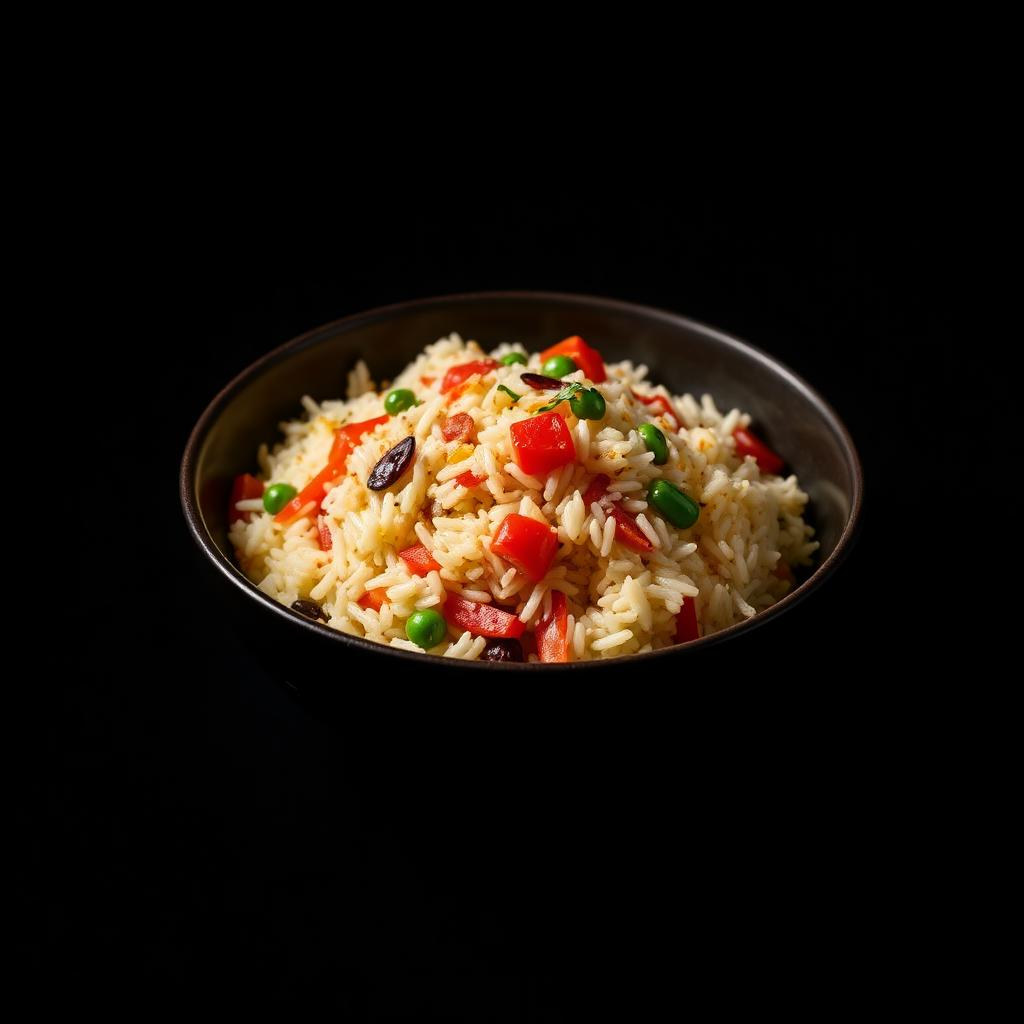
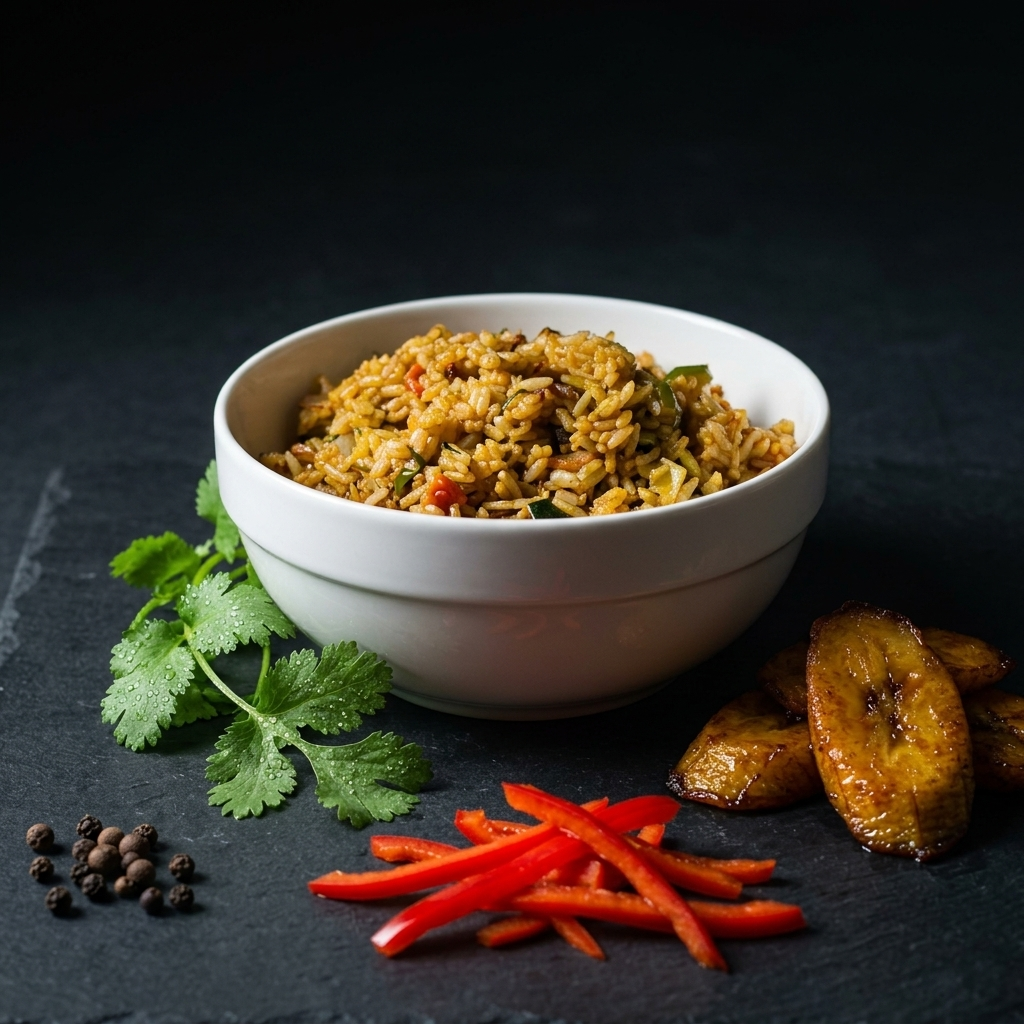
SEO overhaul, area image refactor, AI chat fix, AGENTS.md
- SEO: updated all page meta tags (title, description, OG, Twitter, canonical)
- SEO: added JSON-LD Restaurant schema with LocalBusiness data
- SEO: created robots.txt and sitemap.xml
- SEO: created AGENTS.md project rules file
- Area: renamed src/assets/area/ images to clean sequential names
- Area: swapped all venue image imports to use src/assets/area/
- Fix: AI chat fallback now emits SSE JSON events matching uiMessageChunkSchema
- Fix: replaced Lovable-authored default meta with real restaurant info

diff --git a/src/routes/__root.tsx b/src/routes/__root.tsx
@@ -72,29 +72,39 @@ function ErrorComponent({ error, reset }: { error: Error; reset: () => void }) {
   );
 }
 
+const SITE_URL = "https://taniascuisine.rw";
+const SITE_NAME = "Tania's Cuisine & Lounge — Kigali";
+const OG_IMAGE = `${SITE_URL}/og-image.jpg`;
+
 export const Route = createRootRouteWithContext<{ queryClient: QueryClient }>()({
   head: () => ({
     meta: [
       { charSet: "utf-8" },
       { name: "viewport", content: "width=device-width, initial-scale=1" },
-      { title: "Tania's Cuisine" },
-      { name: "description", content: "Tania's Culinary Canvas is a website for a catering and dining company." },
-      { name: "author", content: "Lovable" },
-      { property: "og:title", content: "Tania's Cuisine" },
-      { property: "og:description", content: "Tania's Culinary Canvas is a website for a catering and dining company." },
+      { title: "Tania's Cuisine & Lounge — Kigali's Finest Dining Since 2018" },
+      { name: "description", content: "Atmospheric dining, lounge and catering at M&M Plaza, Gishushu, Kigali. African grills, daily buffet, coffee bar. Reserve your table or book an event for up to 1,000 guests." },
+      { name: "author", content: "Tania's Cuisine & Lounge" },
+      { name: "theme-color", content: "#0c0b0a" },
+      { name: "robots", content: "index, follow" },
+      { name: "googlebot", content: "index, follow" },
+      { property: "og:site_name", content: SITE_NAME },
+      { property: "og:title", content: "Tania's Cuisine & Lounge — Kigali's Finest Dining Since 2018" },
+      { property: "og:description", content: "Atmospheric dining, lounge and catering at M&M Plaza, Gishushu, Kigali. African grills, daily buffet, coffee bar. Reserve your table or book an event for up to 1,000 guests." },
       { property: "og:type", content: "website" },
-      { name: "twitter:card", content: "summary" },
-      { name: "twitter:site", content: "@Lovable" },
-      { name: "twitter:title", content: "Tania's Cuisine" },
-      { name: "twitter:description", content: "Tania's Culinary Canvas is a website for a catering and dining company." },
-      { property: "og:image", content: "https://pub-bb2e103a32db4e198524a2e9ed8f35b4.r2.dev/4a08b8bd-8c39-4d37-b76d-35fd05f4b3ce/id-preview-1b52115e--a3289e06-0e1f-42bd-b4b5-78e1a7840414.lovable.app-1780134926457.png" },
-      { name: "twitter:image", content: "https://pub-bb2e103a32db4e198524a2e9ed8f35b4.r2.dev/4a08b8bd-8c39-4d37-b76d-35fd05f4b3ce/id-preview-1b52115e--a3289e06-0e1f-42bd-b4b5-78e1a7840414.lovable.app-1780134926457.png" },
+      { property: "og:url", content: SITE_URL },
+      { property: "og:image", content: OG_IMAGE },
+      { property: "og:image:width", content: "1200" },
+      { property: "og:image:height", content: "630" },
+      { property: "og:locale", content: "en_RW" },
+      { name: "twitter:card", content: "summary_large_image" },
+      { name: "twitter:site", content: "@LoungeTania" },
+      { name: "twitter:title", content: "Tania's Cuisine & Lounge — Kigali" },
+      { name: "twitter:description", content: "Atmospheric dining, lounge & catering in Kigali. African grills, daily buffet, coffee bar." },
+      { name: "twitter:image", content: OG_IMAGE },
     ],
     links: [
-      {
-        rel: "stylesheet",
-        href: appCss,
-      },
+      { rel: "canonical", href: SITE_URL },
+      { rel: "stylesheet", href: appCss },
     ],
   }),
   shellComponent: RootShell,
@@ -103,11 +113,48 @@ export const Route = createRootRouteWithContext<{ queryClient: QueryClient }>()(
   errorComponent: ErrorComponent,
 });
 
+const SCHEMA = {
+  "@context": "https://schema.org",
+  "@type": "Restaurant",
+  name: "Tania's Cuisine & Lounge",
+  alternateName: "Tania's",
+  description: "Kigali's atmospheric dining destination. African grills, curries, daily buffet, coffee bar and catering for up to 1,000 guests.",
+  url: "https://taniascuisine.rw",
+  telephone: "[phone redacted]",
+  email: "[email redacted]",
+  servesCuisine: ["African", "East African", "Grill", "International"],
+  priceRange: "$$",
+  foundingDate: "2020-02",
+  parentOrganization: {
+    "@type": "Organization",
+    name: "Tany's Ltd",
+    foundingDate: "2018",
+  },
+  address: {
+    "@type": "PostalAddress",
+    streetAddress: "M&M Plaza, Gishushu",
+    addressLocality: "Kigali",
+    addressCountry: "RW",
+  },
+  geo: { "@type": "GeoCoordinates", latitude: -1.9441, longitude: 30.0619 },
+  openingHoursSpecification: [
+    { "@type": "OpeningHoursSpecification", dayOfWeek: ["Monday", "Tuesday", "Wednesday", "Thursday", "Friday"], opens: "11:00", closes: "23:00" },
+    { "@type": "OpeningHoursSpecification", dayOfWeek: ["Saturday", "Sunday"], opens: "11:00", closes: "23:00" },
+  ],
+  image: "https://taniascuisine.rw/og-image.jpg",
+  sameAs: [
+    "https://www.instagram.com/taniacuisineandlounge",
+    "https://twitter.com/LoungeTania",
+  ],
+  aggregateRating: { "@type": "AggregateRating", ratingValue: "4.5", bestRating: "5", ratingCount: "120" },
+};
+
 function RootShell({ children }: { children: ReactNode }) {
   return (
     <html lang="en">
       <head>
         <HeadContent />
+        <script type="application/ld+json" dangerouslySetInnerHTML={{ __html: JSON.stringify(SCHEMA) }} />
       </head>
       <body>
         {children}

diff --git a/src/routes/lounge.tsx b/src/routes/lounge.tsx
@@ -1,19 +1,23 @@
 import { createFileRoute, Link } from "@tanstack/react-router";
 import { SiteLayout } from "@/components/site/Layout";
-import lounge from "@/assets/lounge-interior.jpg";
-import buffet from "@/assets/buffet.jpg";
-import loungeDrink from "@/assets/lounge-drink.jpg";
-import loungeFood from "@/assets/lounge-food.jpg";
+import lounge from "@/assets/area/area-01.jpeg";
+import buffet from "@/assets/area/area-04.jpeg";
+import loungeDrink from "@/assets/area/area-05.jpeg";
+import loungeFood from "@/assets/area/area-06.jpeg";
 import { MapPin, Clock, Phone } from "lucide-react";
 
 export const Route = createFileRoute("/lounge")({
   head: () => ({
     meta: [
-      { title: "The Lounge — Tania's Cuisine & Lounge Kigali" },
-      { name: "description", content: "Velvet booths, copper light, daily buffet. Reserve your table at Tania's atmospheric lounge in Kigali." },
-      { property: "og:title", content: "The Lounge — Tania's Cuisine & Lounge" },
-      { property: "og:description", content: "Atmospheric Kigali dining lounge with daily buffet." },
+      { title: "The Lounge — Tania's Cuisine & Lounge | Gishushu, Kigali" },
+      { name: "description", content: "Tania's atmospheric lounge at M&M Plaza, Gishushu, Kigali. Velvet booths, copper pendants, daily chef's buffet (12,000 RWF, 12:00–15:00). Open Mon–Sun 11:00–23:00. Reserve your table." },
+      { property: "og:title", content: "The Lounge — Tania's Cuisine & Lounge | Gishushu, Kigali" },
+      { property: "og:description", content: "Atmospheric lounge at M&M Plaza, Gishushu, Kigali. Daily buffet, velvet booths, copper light. Reserve your table." },
+      { property: "og:url", content: "https://taniascuisine.rw/lounge" },
+      { name: "twitter:title", content: "The Lounge — Tania's Cuisine & Lounge" },
+      { name: "twitter:description", content: "Atmospheric Kigali dining lounge with daily buffet at M&M Plaza, Gishushu." },
     ],
+    links: [{ rel: "canonical", href: "https://taniascuisine.rw/lounge" }],
   }),
   component: LoungePage,
 });

diff --git a/src/routes/about.tsx b/src/routes/about.tsx
@@ -1,17 +1,21 @@
 import { createFileRoute } from "@tanstack/react-router";
 import { SiteLayout } from "@/components/site/Layout";
-import lounge from "@/assets/lounge-interior.jpg";
-import catering from "@/assets/catering-event.jpg";
-import buffet from "@/assets/buffet.jpg";
+import lounge from "@/assets/area/area-01.jpeg";
+import catering from "@/assets/area/area-02.jpeg";
+import buffet from "@/assets/area/area-03.jpeg";
 
 export const Route = createFileRoute("/about")({
   head: () => ({
     meta: [
-      { title: "About — Tania's Cuisine & Lounge | Tany's Ltd" },
-      { name: "description", content: "Tania's Cuisine & Lounge — part of Tany's Ltd. Kigali's premier dining, lounge and catering destination since February 2020." },
-      { property: "og:title", content: "About — Tania's Cuisine & Lounge | Tany's Ltd" },
-      { property: "og:description", content: "Part of Tany's Ltd. Kigali's premier dining destination since Feb 2020." },
+      { title: "About — Tania's Cuisine & Lounge | Part of Tany's Ltd, Kigali" },
+      { name: "description", content: "Part of Tany's Ltd (est. 2018). Tania's Cuisine & Lounge opened February 2020 at M&M Plaza, Gishushu, Kigali. Kigali's premier dining, lounge and catering destination. Up to 1,000 guests per event." },
+      { property: "og:title", content: "About — Tania's Cuisine & Lounge | Part of Tany's Ltd" },
+      { property: "og:description", content: "Kigali's premier dining destination since Feb 2020. Part of Tany's Ltd. African hospitality, global standards." },
+      { property: "og:url", content: "https://taniascuisine.rw/about" },
+      { name: "twitter:title", content: "About — Tania's Cuisine & Lounge" },
+      { name: "twitter:description", content: "Part of Tany's Ltd. Kigali's premier dining destination since Feb 2020." },
     ],
+    links: [{ rel: "canonical", href: "https://taniascuisine.rw/about" }],
   }),
   component: AboutPage,
 });

diff --git a/src/routes/catering.tsx b/src/routes/catering.tsx
@@ -1,19 +1,23 @@
 import { createFileRoute } from "@tanstack/react-router";
 import { useState, type FormEvent } from "react";
 import { SiteLayout } from "@/components/site/Layout";
-import catering from "@/assets/catering-event.jpg";
+import catering from "@/assets/area/area-07.jpeg";
 import platter from "@/assets/dish-platter.jpg";
-import buffet from "@/assets/buffet.jpg";
+import buffet from "@/assets/area/area-04.jpeg";
 import { Check } from "lucide-react";
 
 export const Route = createFileRoute("/catering")({
   head: () => ({
     meta: [
-      { title: "Catering & Events — Tania's Cuisine Kigali | Tany's Ltd" },
-      { name: "description", content: "Chef-led catering for corporate events, weddings and private parties. Serving 50 — 1,000 guests across Rwanda since 2020." },
-      { property: "og:title", content: "Catering & Events — Tania's Cuisine | Tany's Ltd" },
-      { property: "og:description", content: "Service that scales. From 50 to 1,000 guests." },
+      { title: "Catering & Events — Tania's Cuisine & Lounge | Kigali, Rwanda" },
+      { name: "description", content: "Chef-led catering in Kigali. Corporate catering, weddings, galas, private events and daily office buffet delivery. Serving 50–1,000 guests. Trusted by Access Bank, Bank of Kigali, GIZ, Oxfam and more. Part of Tany's Ltd." },
+      { property: "og:title", content: "Catering & Events — Tania's Cuisine & Lounge | Kigali" },
+      { property: "og:description", content: "Chef-led catering for 50–1,000 guests. Corporate, weddings, private events. Trusted by Access Bank, Bank of Kigali, GIZ." },
+      { property: "og:url", content: "https://taniascuisine.rw/catering" },
+      { name: "twitter:title", content: "Catering & Events — Tania's Cuisine & Lounge" },
+      { name: "twitter:description", content: "Chef-led catering for 50–1,000 guests in Kigali. Corporate, weddings, private events." },
     ],
+    links: [{ rel: "canonical", href: "https://taniascuisine.rw/catering" }],
   }),
   component: CateringPage,
 });

diff --git a/src/routes/index.tsx b/src/routes/index.tsx
@@ -5,18 +5,21 @@ import beefFillet from "@/assets/menu/beef-fillet.jpg";
 import wholeTilapia from "@/assets/menu/whole-tilapia.jpg";
 import bbqPlatter from "@/assets/menu/bbq-platter.jpg";
 import heroVideo from "@/assets/herovideo.mp4";
-import loungeImg from "@/assets/lounge-interior.jpg";
-import cateringImg from "@/assets/catering-event.jpg";
+import loungeImg from "@/assets/area/area-01.jpeg";
+import cateringImg from "@/assets/area/area-07.jpeg";
 import { ArrowRight } from "lucide-react";
 
 export const Route = createFileRoute("/")({
   head: () => ({
     meta: [
       { title: "Tania's Cuisine & Lounge — Kigali's Finest Dining Since 2018" },
-      { name: "description", content: "Atmospheric dining, catering at scale, and an unforgettable lounge in Kigali. Reserve a table or book your event." },
-      { property: "og:title", content: "Tania's Cuisine & Lounge" },
-      { property: "og:description", content: "Kigali's finest dining since 2018." },
+      { name: "description", content: "Atmospheric dining, lounge and catering at M&M Plaza, Gishushu, Kigali. African grills, curries, daily buffet, coffee bar. Reserve a table or book catering for up to 1,000 guests." },
+      { property: "og:title", content: "Tania's Cuisine & Lounge — Kigali's Finest Dining Since 2018" },
+      { property: "og:description", content: "Atmospheric dining, lounge and catering at M&M Plaza, Gishushu, Kigali. African grills, daily buffet, coffee bar. Reserve your table." },
+      { property: "og:url", content: "https://taniascuisine.rw" },
+      { name: "twitter:card", content: "summary_large_image" },
     ],
+    links: [{ rel: "canonical", href: "https://taniascuisine.rw" }],
   }),
   component: Index,
 });

diff --git a/src/routes/contact.tsx b/src/routes/contact.tsx
@@ -13,11 +13,15 @@ import {
 export const Route = createFileRoute("/contact")({
   head: () => ({
     meta: [
-      { title: "Reservations & Contact — Tania's Cuisine & Lounge" },
-      { name: "description", content: "Reserve a table at Tania's Cuisine & Lounge, Gishushu Kigali. Choose date, time and party size — WhatsApp confirmation within minutes." },
-      { property: "og:title", content: "Reserve a Table — Tania's Cuisine & Lounge" },
-      { property: "og:description", content: "Book your table in seconds. Confirmation by WhatsApp." },
+      { title: "Reservations & Contact — Tania's Cuisine & Lounge | Gishushu, Kigali" },
+      { name: "description", content: "Reserve a table at Tania's Cuisine & Lounge, M&M Plaza, Gishushu, Kigali. Choose date, time and party size — WhatsApp confirmation within minutes. Call [phone redacted]." },
+      { property: "og:title", content: "Reserve a Table — Tania's Cuisine & Lounge | Gishushu, Kigali" },
+      { property: "og:description", content: "Book your table at M&M Plaza, Gishushu. Choose date, time and party size. WhatsApp confirmation within minutes." },
+      { property: "og:url", content: "https://taniascuisine.rw/contact" },
+      { name: "twitter:title", content: "Reserve a Table — Tania's Cuisine & Lounge" },
+      { name: "twitter:description", content: "Book your table at M&M Plaza, Gishushu. WhatsApp confirmation within minutes." },
     ],
+    links: [{ rel: "canonical", href: "https://taniascuisine.rw/contact" }],
   }),
   component: ContactPage,
 });

diff --git a/src/routes/gallery.tsx b/src/routes/gallery.tsx
@@ -6,11 +6,15 @@ import { X, ChevronLeft, ChevronRight } from "lucide-react";
 export const Route = createFileRoute("/gallery")({
   head: () => ({
     meta: [
-      { title: "Gallery — Tania's Cuisine & Lounge" },
-      { name: "description", content: "Browse the Tania's Cuisine & Lounge gallery — atmosphere, events, and everyday moments at M&M Plaza, Gishushu, Kigali." },
-      { property: "og:title", content: "Gallery — Tania's Cuisine & Lounge" },
-      { property: "og:description", content: "Moments captured at Tania's." },
+      { title: "Gallery — Tania's Cuisine & Lounge | M&M Plaza, Gishushu, Kigali" },
+      { name: "description", content: "Browse the Tania's Cuisine & Lounge photo gallery — the lounge, the table, the light, and everyday moments at M&M Plaza, Gishushu, Kigali." },
+      { property: "og:title", content: "Gallery — Tania's Cuisine & Lounge | Gishushu, Kigali" },
+      { property: "og:description", content: "Browse our gallery — the lounge, atmosphere and everyday moments at Tania's in Gishushu, Kigali." },
+      { property: "og:url", content: "https://taniascuisine.rw/gallery" },
+      { name: "twitter:title", content: "Gallery — Tania's Cuisine & Lounge" },
+      { name: "twitter:description", content: "Browse the gallery — atmosphere, events and moments at M&M Plaza, Gishushu." },
     ],
+    links: [{ rel: "canonical", href: "https://taniascuisine.rw/gallery" }],
   }),
   component: GalleryPage,
 });

diff --git a/src/routes/menu.tsx b/src/routes/menu.tsx
@@ -8,11 +8,15 @@ import { Clock, Star } from "lucide-react";
 export const Route = createFileRoute("/menu")({
   head: () => ({
     meta: [
-      { title: "The Menu — Tania's Cuisine & Lounge" },
-      { name: "description", content: "Snacks, grills, goat & chicken specialties, fresh fish, coffee bar, juices and more. Tania's full menu in Kigali." },
-      { property: "og:title", content: "The Menu — Tania's Cuisine & Lounge" },
-      { property: "og:description", content: "A culinary journey of African flavors — grills, curries, coffee and more." },
+      { title: "Menu — Tania's Cuisine & Lounge | African Flavours in Kigali" },
+      { name: "description", content: "Browse the full menu at Tania's Cuisine & Lounge, Kigali. African grills, Swahili fish, peri-peri chicken, beef fillet steak, daily buffet (12,000 RWF), coffee bar, fresh juices and more. Prices in FRW." },
+      { property: "og:title", content: "Menu — Tania's Cuisine & Lounge | African Flavours in Kigali" },
+      { property: "og:description", content: "Browse the full menu: African grills, Swahili fish, peri-peri chicken, daily buffet, coffee bar and more. All prices in FRW." },
+      { property: "og:url", content: "https://taniascuisine.rw/menu" },
+      { name: "twitter:title", content: "Menu — Tania's Cuisine & Lounge" },
+      { name: "twitter:description", content: "African grills, Swahili fish, daily buffet, coffee bar and more in Kigali." },
     ],
+    links: [{ rel: "canonical", href: "https://taniascuisine.rw/menu" }],
   }),
   component: MenuPage,
 });

diff --git a/src/routes/api/chat.ts b/src/routes/api/chat.ts
@@ -82,16 +82,19 @@ export const Route = createFileRoute("/api/chat")({
           const text = last.parts?.map((p) => (p.type === "text" ? p.text : "")).join("") || "";
           const response = generateResponse(text);
 
+          const id = crypto.randomUUID();
           const encoder = new TextEncoder();
           const stream = new ReadableStream({
             start(controller) {
-              controller.enqueue(encoder.encode(response));
+              controller.enqueue(encoder.encode(`data: ${JSON.stringify({ type: "text-start", id })}\n\n`));
+              controller.enqueue(encoder.encode(`data: ${JSON.stringify({ type: "text-delta", id, delta: response })}\n\n`));
+              controller.enqueue(encoder.encode(`data: ${JSON.stringify({ type: "text-end", id })}\n\n`));
               controller.close();
             },
           });
 
           return new Response(stream, {
-            headers: { "Content-Type": "text/plain; charset=utf-8" },
+            headers: { "Content-Type": "text/event-stream" },
           });
         } catch (err) {
           const message = err instanceof Error ? err.message : "unknown error";

diff --git a/AGENTS.md b/AGENTS.md
@@ -1,0 +1,63 @@
+# Project: Tania's Cuisine & Lounge
+
+## Tech Stack
+- React 19, TypeScript 5, Vite 7, TanStack Start (SSR framework)
+- TanStack Router (file-based routes in src/routes/)
+- Tailwind CSS, CSS variables for theming
+- AI SDK v6 (@ai-sdk/react, ai) for chat UI
+- Hosted on Vercel (Build Output API v3)
+
+## Commands
+- Dev: `npm run dev`
+- Build: `npm run build`
+- Build-only: `node ./node_modules/vite/dist/node/cli.js build`
+
+## Routes & Pages
+- `/` — Homepage (hero video, featured dishes, lounge/catering CTAs)
+- `/menu` — Full menu with filterable sections
+- `/lounge` — Lounge page with daily buffet info
+- `/catering` — Catering packages + inquiry form
+- `/gallery` — Photo gallery with masonry grid + lightbox
+- `/about` — Company info (Tany's Ltd, values, clients)
+- `/contact` — Reservation form + contact details
+- `/api/chat` — AI chat endpoint (Gemini + fallback rule-based bot)
+
+## Key Data
+- `src/data/menu.ts` — Menu items, sections, restaurantInfo object
+- `src/data/menu-images.ts` — Image resolution for menu items
+- `src/lib/menu-bot.server.ts` — Rule-based chat fallback bot
+- Images: `src/assets/menu/` for dishes, `src/assets/area/` for venue, `public/gallery/` for gallery
+
+## SEO Guidelines
+- Every route has a `head()` export with title, description, og:title, og:description
+- Root `__root.tsx` has global SEO: og:image, twitter:card, JSON-LD schema, canonical URL
+- `public/robots.txt` and `public/sitemap.xml` must stay current with all routes
+- JSON-LD Restaurant schema in `__root.tsx` — update geo coordinates, ratings, sameAs if changed
+
+## Company Facts
+- Parent: Tany's Ltd (est. 2018)
+- Tania's launched: February 2020
+- Location: M&M Plaza, Gishushu, Kigali, Rwanda
+- Hours: Mon–Sun, 11:00–23:00. Daily buffet 12:00–15:00 (12,000 RWF)
+- Phone: [phone redacted]
+- Email: [email redacted], [email redacted], [email redacted]
+- Capacity: up to 1,000 guests/event
+- Social: @LoungeTania (Twitter/X), @taniacuisineandlounge (Instagram)
+
+## AI Chat
+- Uses `@ai-sdk/react` `useChat` hook + `DefaultChatTransport`
+- Server route: `src/routes/api/chat.ts`
+- AI model: Google Gemini `gemini-2.0-flash` (via `@ai-sdk/google`)
+- Fallback: rule-based bot (`src/lib/menu-bot.server.ts`) when no `GOOGLE_API_KEY`
+- Response format: SSE JSON events (`text-start`/`text-delta`/`text-end`)
+
+## Build Notes
+- TanStack Start + Nitro, preset = "vercel"
+- Build goes to `dist/`, postbuild copies to `.vercel/output/`
+- `scripts/prepare-vercel-output.cjs` handles Vercel output structure
+
+## Boundaries
+- Never change `nitro.preset` in `vite.config.ts`
+- Menu item images stay unchanged (in `src/assets/menu/`)
+- Keep business info consistent across all pages
+- Don't add Tailwind if CSS variables suffice